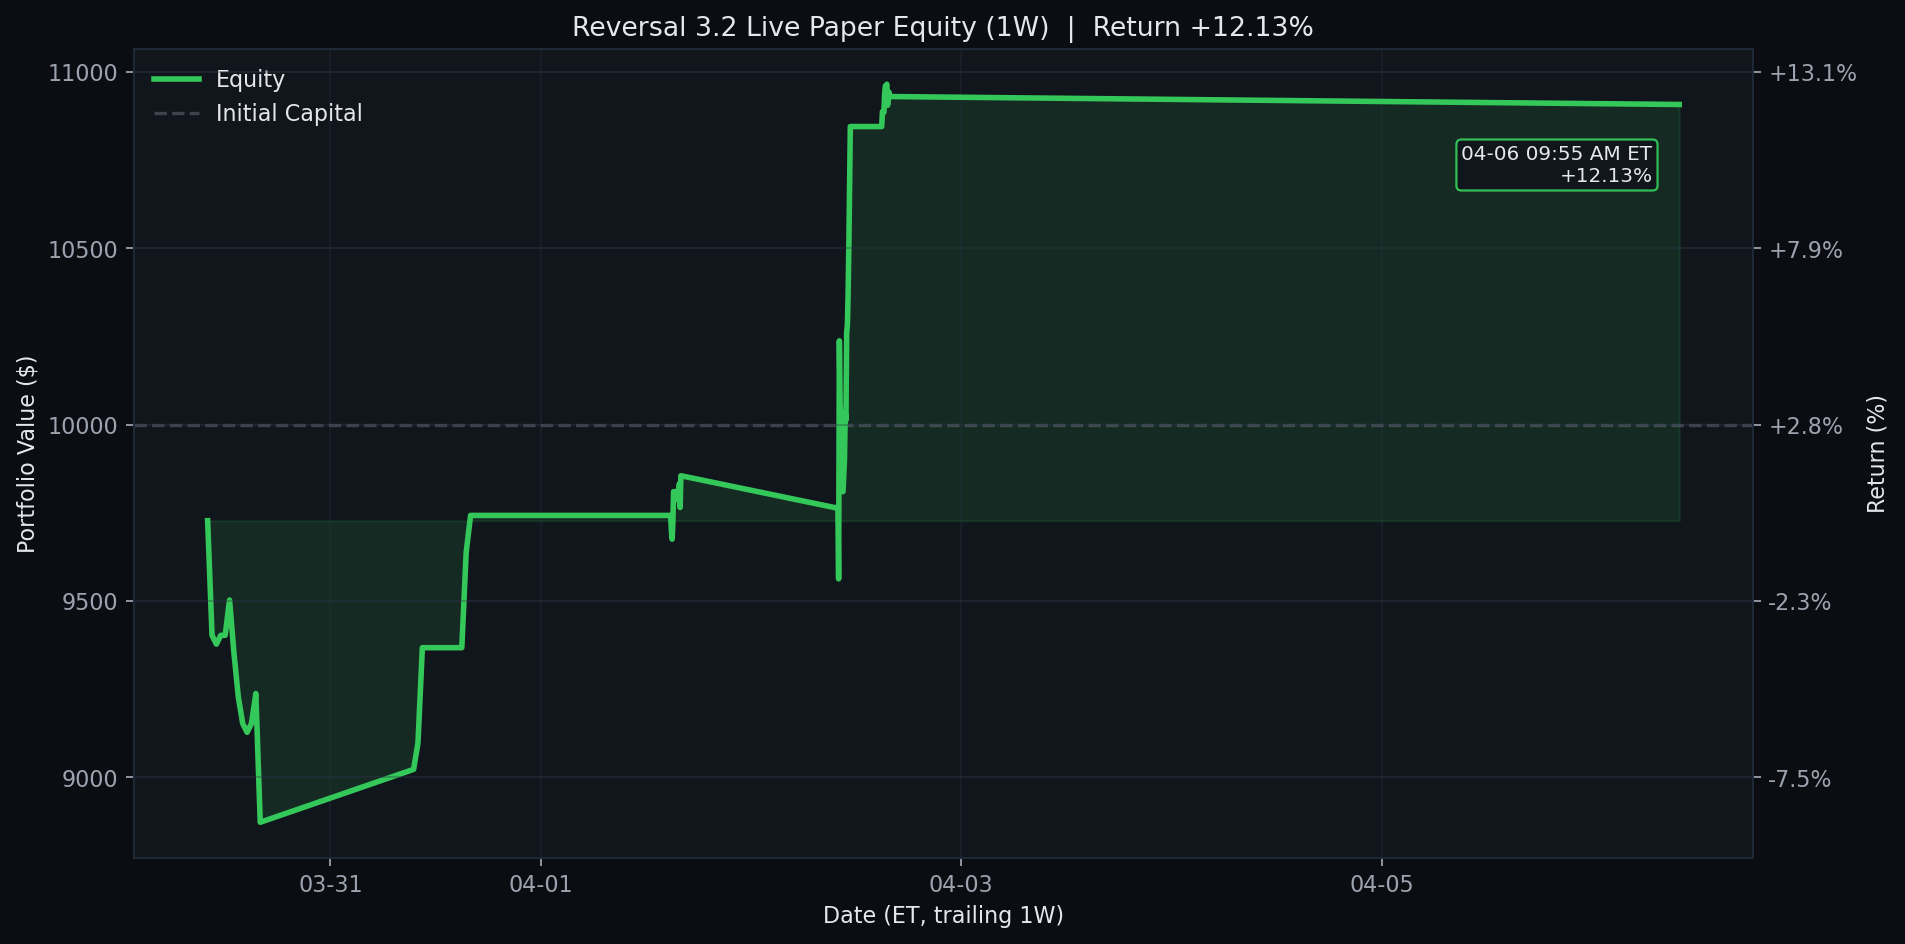
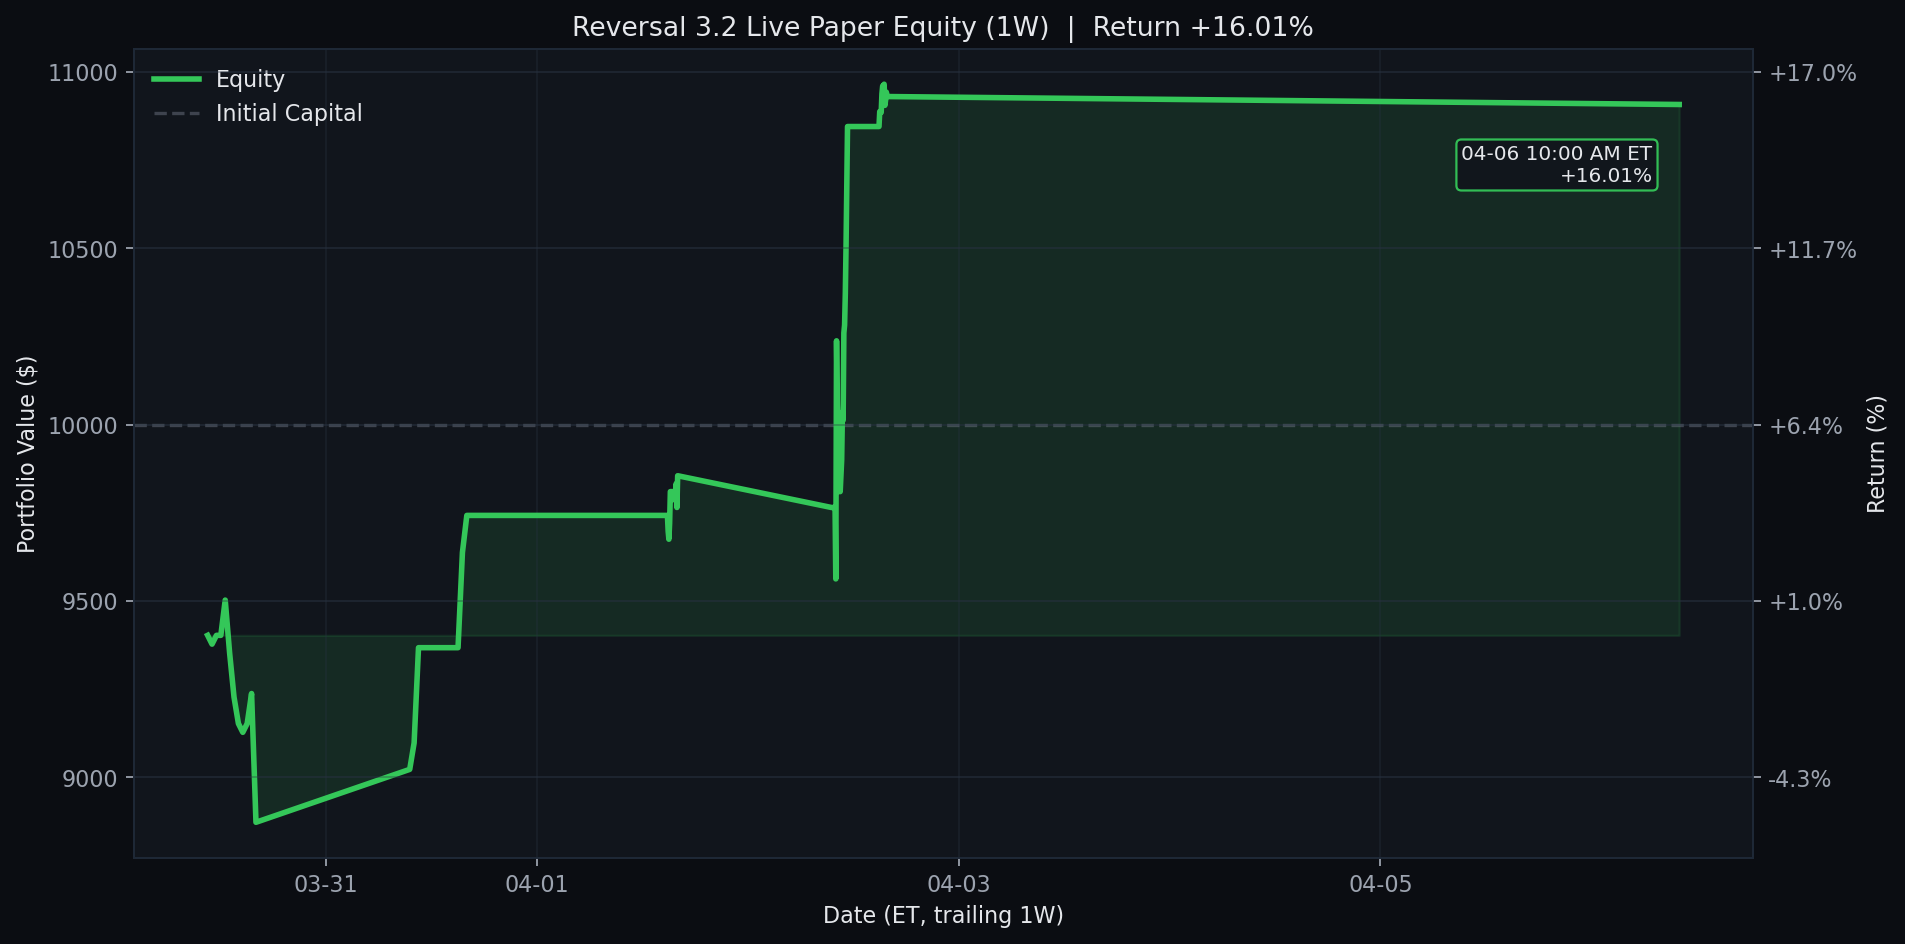
Update Reversal 3.2 live paper test 2026-04-06 10:00 ET

diff --git a/results/reversal_3_2_live/README.md b/results/reversal_3_2_live/README.md
@@ -1,6 +1,6 @@
 # Reversal 3.2 Live Paper Test
 
-Last updated (ET): `2026-04-06 09:55:02 EDT`
+Last updated (ET): `2026-04-06 10:00:06 EDT`
 Last processed slot: `manage_1000`
 
 ## Active Configuration
@@ -29,7 +29,7 @@ Last processed slot: `manage_1000`
 
 ```text
 ticker    contract_symbol entry_trade_date  business_days_held  entry_option_price  current_option_price  entry_spot  current_spot  unrealized_pnl  unrealized_return_pct  success_rate  matched_signals  current_drop_pct  entry_iv_pct  current_iv_pct  rolling_sigma_20d_pct
-   WDC WDC260501C00295000       2026-04-02                   1               27.42                 28.05      294.77        310.44            62.5                   2.28         97.22               36              0.99         81.84             0.0                  91.06
+   WDC WDC260501C00295000       2026-04-02                   1               27.42                 28.05      294.77        309.18            62.5                   2.28         97.22               36              0.99         81.84             0.0                  91.06
 ```
 
 ## Today's Closed Trades (2026-04-06)
@@ -40,24 +40,25 @@ _None_
 
 ```text
 ticker  success_rate_%  matched_signals  current_drop_%  target_rebound_$  target_price  rolling_sigma_20d_%  call_candidate
-   HON          100.00               19            0.88              1.41        228.85                20.57            True
-  FAST           90.91               33            0.69              0.22         46.20                21.85            True
-  ASML           88.24               34            0.78              7.16       1314.16                51.28            True
-   CSX           88.00               25            0.61              0.17         41.15                27.22            True
-   LIN           85.71               21            0.68              2.38        501.58                19.40            True
-  CTSH           83.33               30            1.10              0.48         62.33                26.11            True
-   PEP           81.25               16            0.84              0.92        156.61                18.34            True
-  PANW           80.95               42            0.54              0.62        162.95                41.77            True
-  TTWO           80.00               40            1.04              1.45        199.25                26.67            True
-  DDOG           80.00               20            3.39              2.86        119.14                49.88            True
-  FANG          100.00               31            0.12              0.16        193.81                28.70           False
-   AEP           94.59               37            0.01              0.01        132.68                17.01           False
+   HON          100.00               22            0.61              0.97        229.03                20.57            True
+  ASML           88.24               34            0.75              6.92       1314.27                51.28            True
+  DDOG           85.19               27            2.38              2.00        119.50                49.88            True
+  CTSH           84.21               38            0.53              0.23         62.44                26.11            True
+   PEP           82.35               17            0.81              0.89        156.63                18.34            True
+  TTWO           81.08               37            1.21              1.69        199.15                26.67            True
+  PANW           80.95               42            0.62              0.71        162.91                41.77            True
+   AEP           94.59               37            0.02              0.02        132.67                17.01           False
+  FAST           92.86               42            0.35              0.11         46.25                21.85           False
+  NVDA           92.50               40            0.26              0.32        177.25                36.70           False
+  PCAR           91.49               47            0.04              0.04        118.30                23.40           False
+  COST           90.70               43            0.31              2.18       1014.03                14.21           False
 ```
 
 ## Recent Events
 
 ```text
                     timestamp_et        slot    event_type                                                    detail
+2026-04-06T10:00:06.219713-04:00 manage_1000  slot_skipped                           {"reason": "already_processed"}
 2026-04-06T09:55:02.509102-04:00 manage_1000  slot_skipped                           {"reason": "already_processed"}
 2026-04-06T09:40:00.944679-04:00 manage_0930  slot_skipped                           {"reason": "already_processed"}
 2026-04-06T09:35:05.895013-04:00 manage_0930  slot_skipped                           {"reason": "already_processed"}
@@ -67,7 +68,6 @@ ticker  success_rate_%  matched_signals  current_drop_%  target_rebound_$  targe
 2026-04-02T15:40:05.898407-04:00 manage_1530  slot_skipped                           {"reason": "already_processed"}
 2026-04-02T15:35:05.886679-04:00 manage_1530  slot_skipped                           {"reason": "already_processed"}
 2026-04-02T15:30:05.889337-04:00 manage_1530  slot_skipped                           {"reason": "already_processed"}
-2026-04-02T15:25:05.929228-04:00 manage_1530  slot_skipped                           {"reason": "already_processed"}
 ```
 
 ## Equity Curves

diff --git a/README.md b/README.md
@@ -3,7 +3,7 @@
 <!-- reversal-3.2-live:start -->
 ## Reversal 3.2 Live Paper Test
 
-- Last updated (ET): `2026-04-06 09:55:02 EDT`
+- Last updated (ET): `2026-04-06 10:00:06 EDT`
 - Equity: `$10,907.50` | Realized: `$845.00` | Unrealized: `$62.50` | Open positions: `1`
 - Today closed trades: `0`
 - Current slot: `manage_1000`
